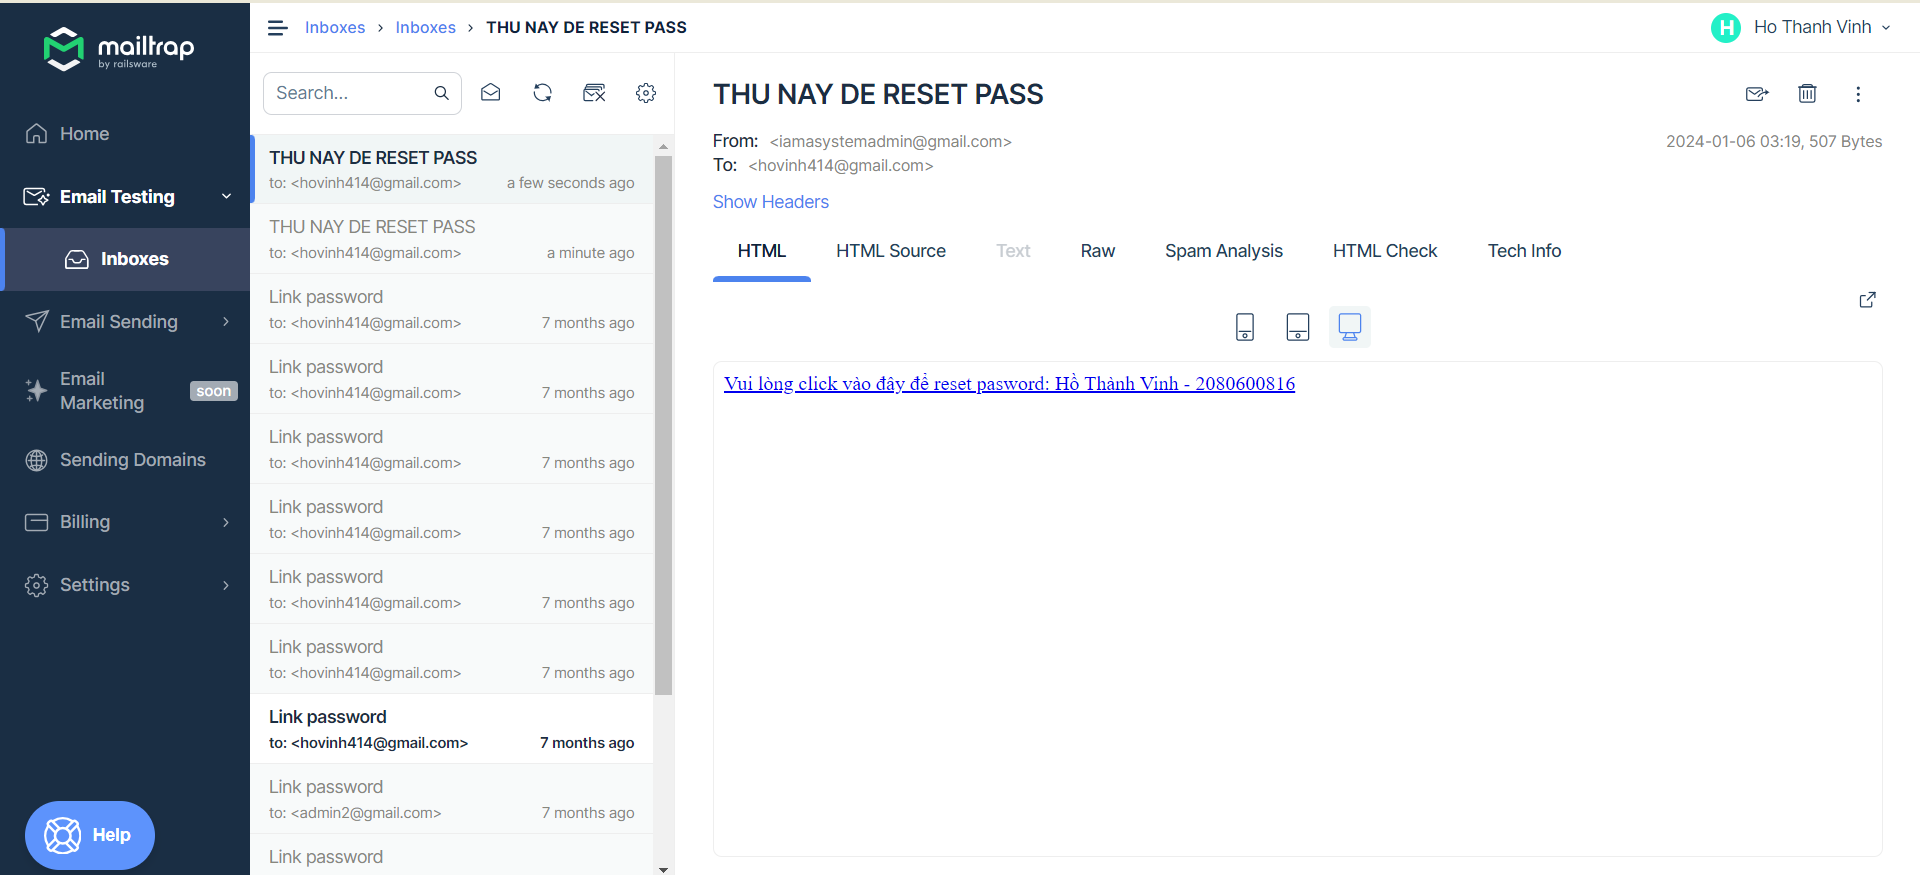
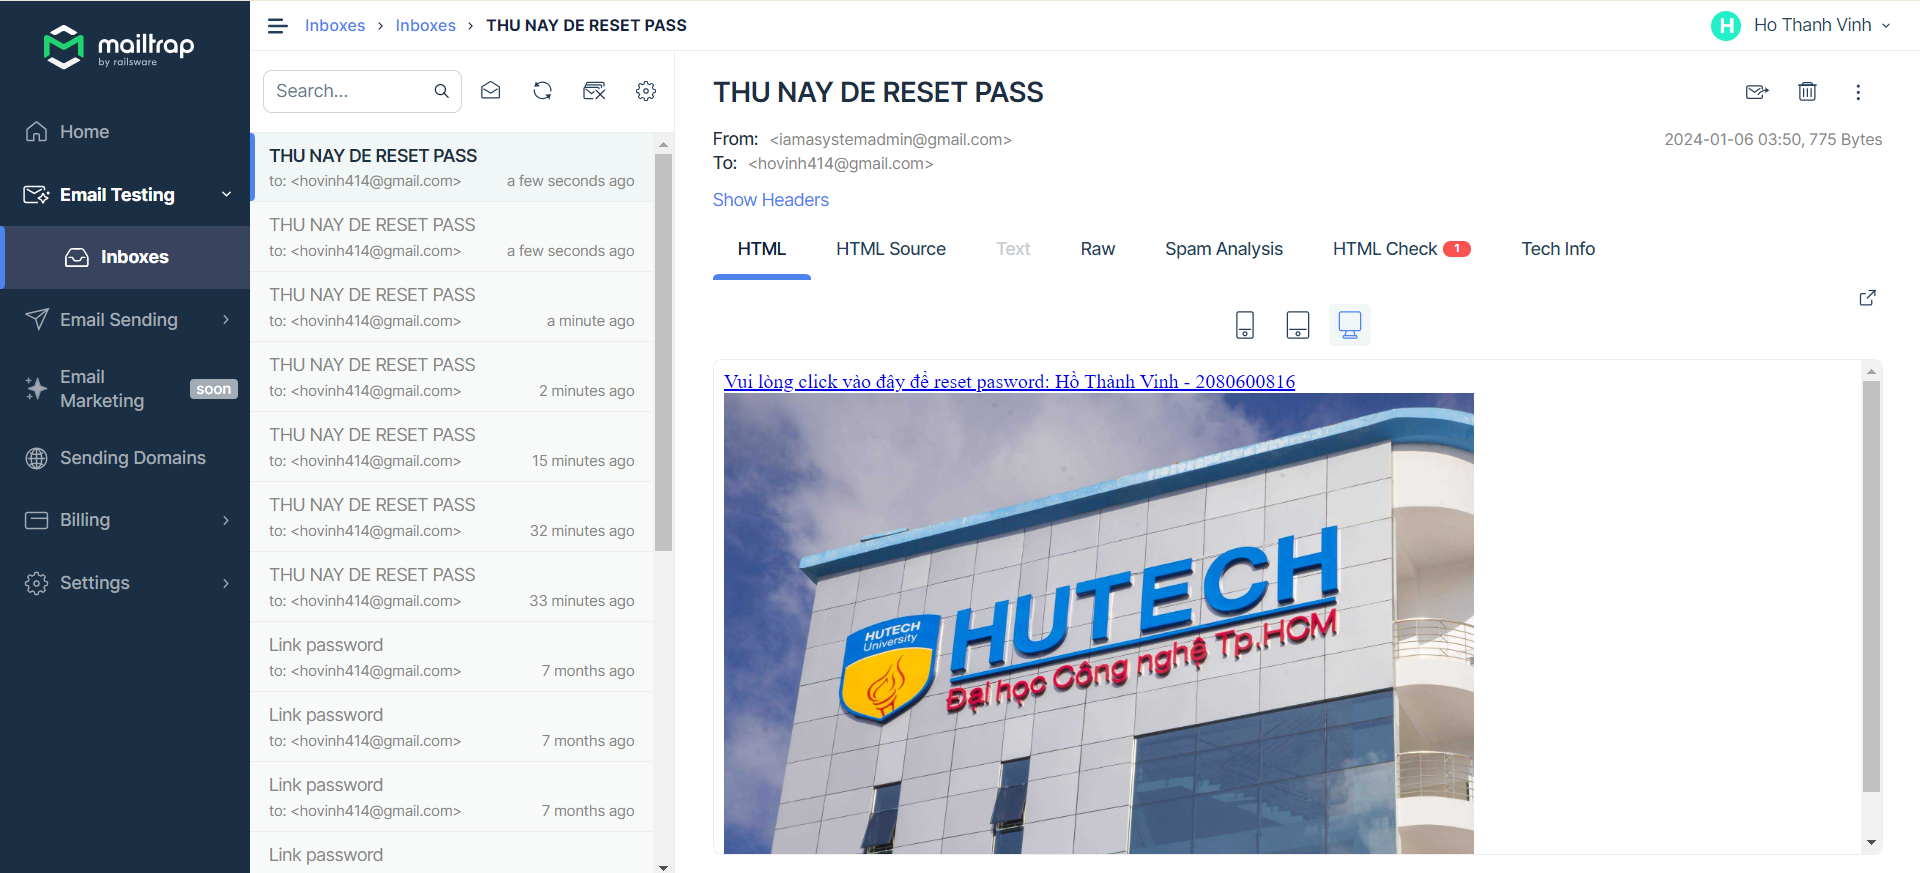
done 6/1

diff --git a/NodeDemo/models/department.js b/NodeDemo/models/department.js
@@ -1,0 +1,64 @@
+var SchemaDepartment = require("../schema/department");
+
+// get, getbyID,create,update, delete
+module.exports = {
+  getall: function (query) {
+    var sort = {};
+    var Search = {};
+    if (query.sort) {
+      if (query.sort[0] == "-") {
+        sort[query.sort.substring(1)] = "desc";
+      } else {
+        sort[query.sort] = "asc";
+      }
+    }
+    if (query.key) {
+      Search.name = new RegExp(query.key, "i");
+    }
+    var limit = parseInt(query.limit) || 2;
+    var page = parseInt(query.page) || 1;
+    var skip = (page - 1) * limit;
+    return SchemaDepartment.find(Search)
+      .select("name")
+      .sort(sort)
+      .limit(limit)
+      .skip(skip)
+      .exec();
+  },
+  getbyID: function (id) {
+    return SchemaDepartment.findById(id);
+  },
+  getByName: function (name) {
+    return SchemaDepartment.findOne({ name: name }).exec();
+  },
+  create: function (department) {
+    return new SchemaDepartment(department).save();
+  },
+  update: function (product) {
+    return SchemaDepartment.findOneAndUpdate({ _id: product.id }, product);
+  },
+  delete: async function (id) {
+    try {
+      const updatedDepartment = await SchemaDepartment.findByIdAndDelete(id);
+
+      return updatedDepartment;
+    } catch (error) {
+      console.error(error);
+      throw error;
+    }
+  },
+  findByIdAndUpdate: async function (productId, updateData) {
+    try {
+      const updatedDepartment = await SchemaDepartment.findByIdAndUpdate(
+        productId,
+        updateData,
+        { new: true }
+      );
+
+      return updatedDepartment;
+    } catch (error) {
+      console.error(error);
+      throw error;
+    }
+  },
+};

diff --git a/NodeDemo/helper/sendmail.js b/NodeDemo/helper/sendmail.js
@@ -1,25 +1,27 @@
-var nodemailer = require('nodemailer');
-const configs = require('./configs');
-
+var nodemailer = require("nodemailer");
+const configs = require("./configs");
 
 var transport = nodemailer.createTransport({
-    host: configs.MAIL_HOST,
-    port: configs.MAIL_PORT,
-    auth: {
-        user: configs.MAIL_USER, //example of generated by Mailtrap 
-        pass: configs.MAIL_PASS //example of generated by Mailtrap 
-    }
+  host: configs.MAIL_HOST,
+  port: configs.MAIL_PORT,
+  auth: {
+    user: configs.MAIL_USER, //example of generated by Mailtrap
+    pass: configs.MAIL_PASS, //example of generated by Mailtrap
+  },
 });
 
-
-
 module.exports = {
-    send: async function (email, message) {
-        await transport.sendMail({
-            from: 'iamasystemadmin@gmail.com',
-            to: email,
-            subject: 'THU NAY DE RESET PASS',
-            html: '<a href=/authen/resetPassword/'+message+'>Vui lòng click vào đây để reset pasword: Hồ Thành Vinh - 2080600816</a>',
-        })
-    },
-}
+  send: async function (email, message) {
+    await transport.sendMail({
+      from: "iamasystemadmin@gmail.com",
+      to: email,
+      subject: "THU NAY DE RESET PASS",
+      html: `
+            <a href=/authen/resetPassword/'+message+'>Vui lòng click vào đây để reset pasword: Hồ Thành Vinh - 2080600816</a>
+                <a href="/authen/resetPassword/${message}">
+                    <img src="https://i.imgur.com/GN4sfZ9.jpg" alt="Reset Password Image" style="width: 100%; max-width: 600px; height: auto;">
+                </a>
+            `,
+    });
+  },
+};

diff --git a/NodeDemo/schema/department.js b/NodeDemo/schema/department.js
@@ -1,0 +1,7 @@
+var mongoose = require("mongoose");
+
+const schema = new mongoose.Schema({
+    name: String,
+});
+
+module.exports = mongoose.model('department', schema);;
